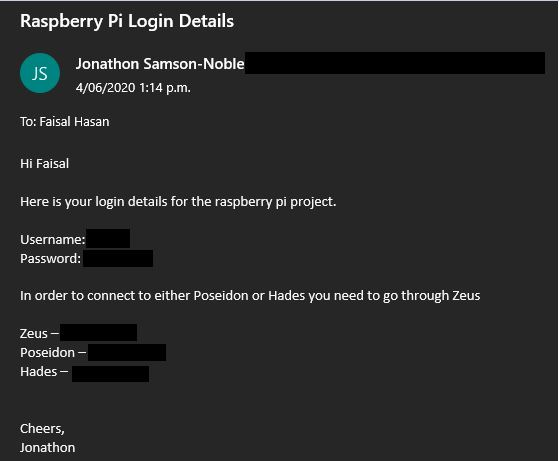
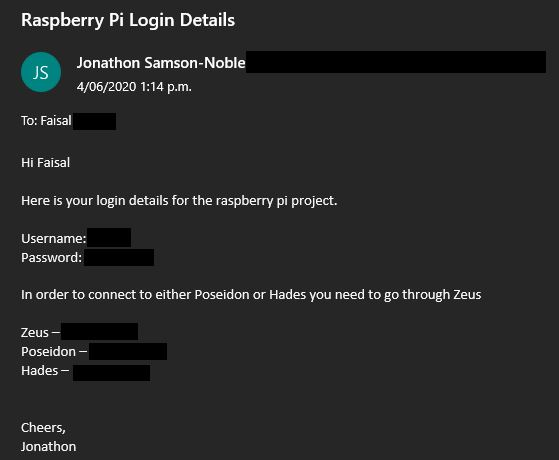
wip

diff --git a/docs/in701Project1.html b/docs/in701Project1.html
@@ -367,7 +367,7 @@
 							<h4>Tuesday</h4>
 							<h4>Wednesday</h4>
 							<h4>Thursday</h4>
-							<p>I created login credentials for Faisal and added him to the sudo group i then email'd him those credentials along with the list of ip's required and instructions on how to connect to each device <img src=""></p>
+							<p>I created login credentials for Faisal and added him to the sudo group i then email'd him those credentials along with the list of ip's required and instructions on how to connect to each device.<br><br> <img src="img/redactedlogin.JPG" ><br>I have redacted sensitive information from the above image for security reasons.</p>
 							<h4>Friday</h4>
 						</div>
 					</div>
